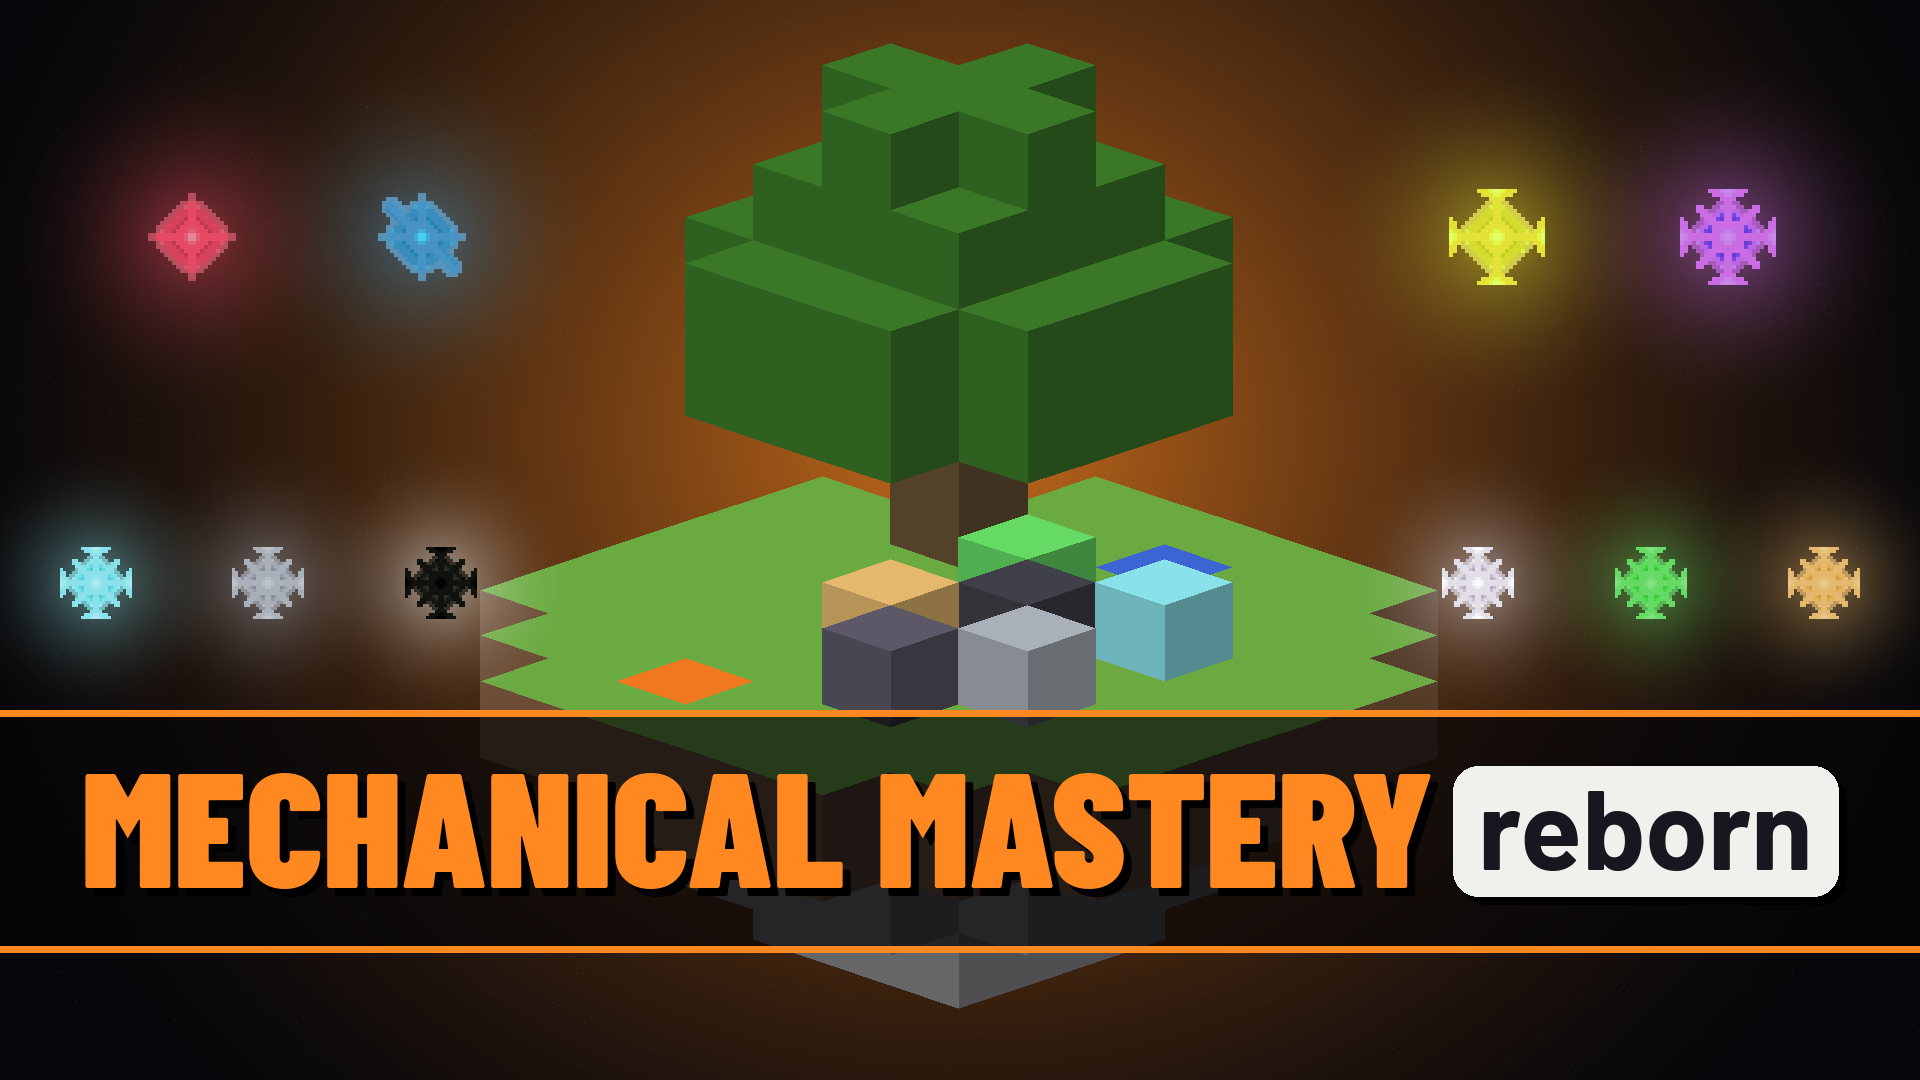
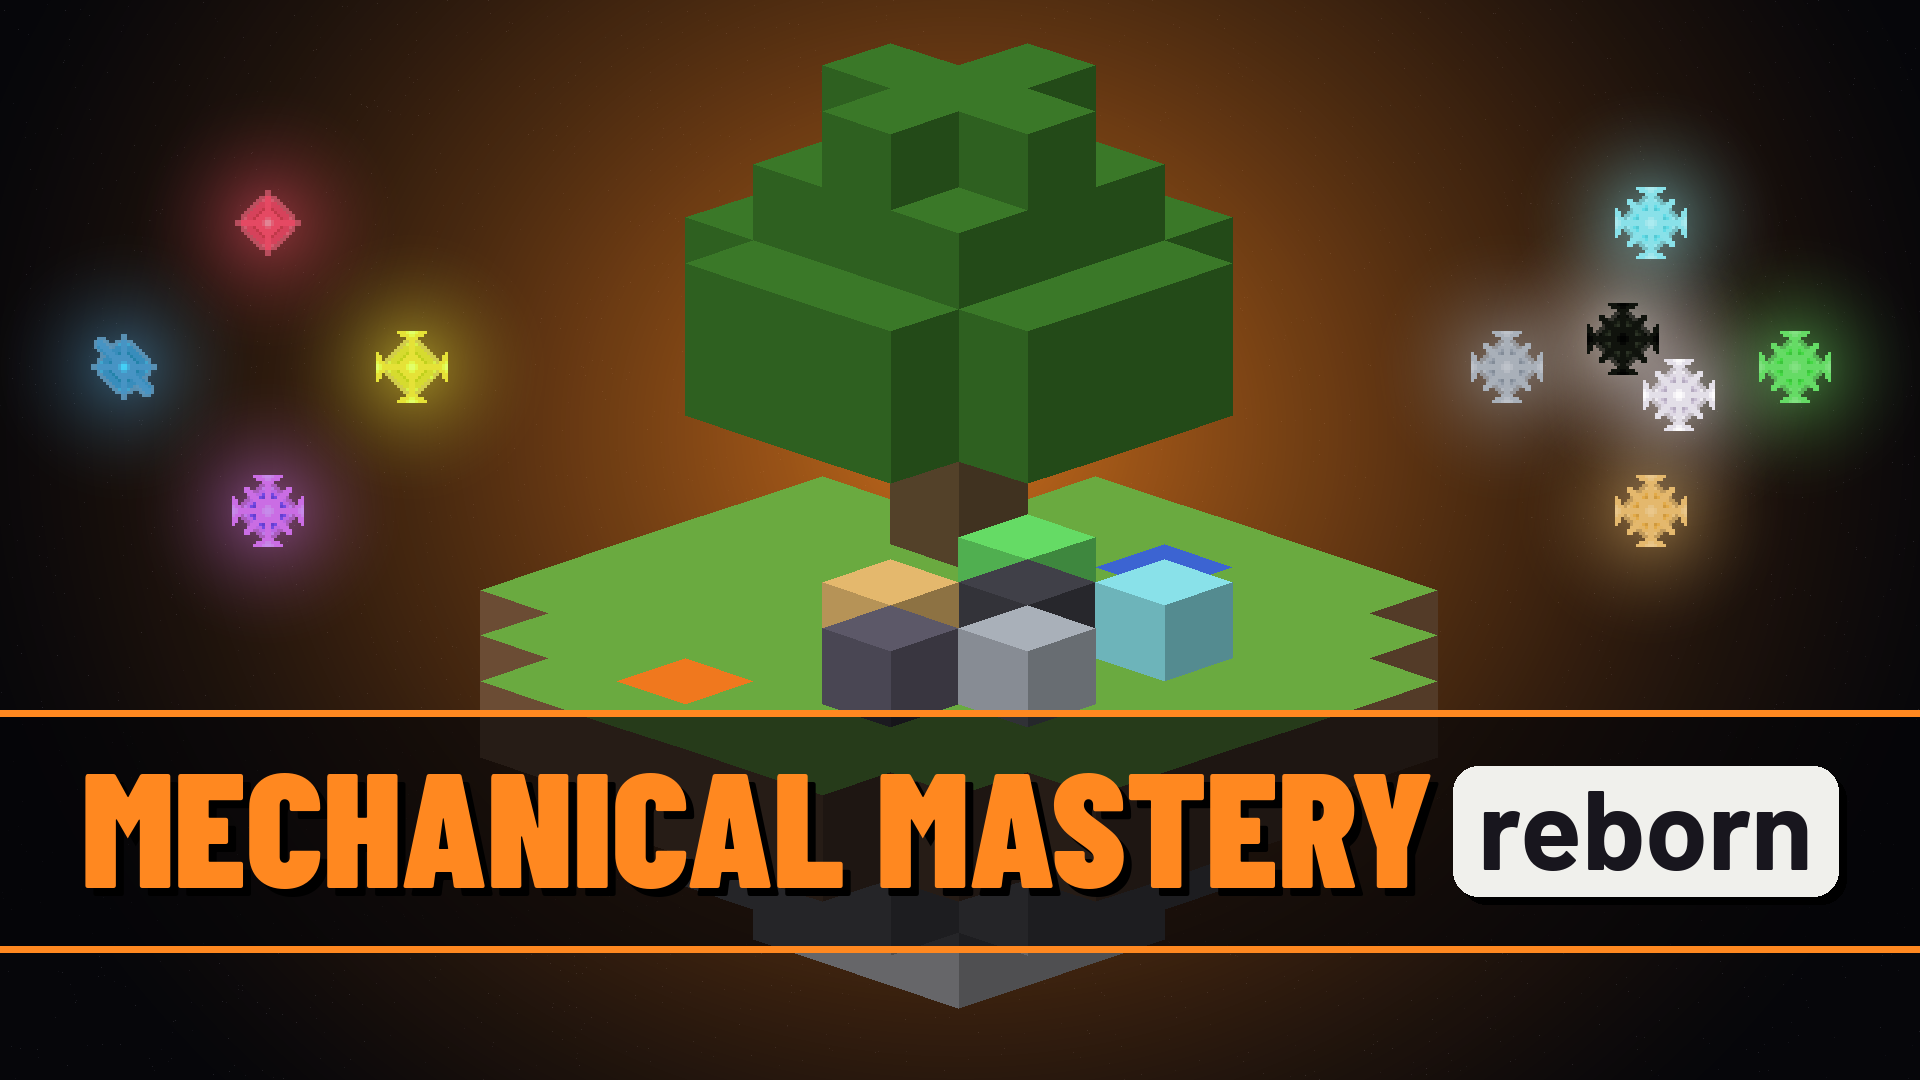
Reborn's pack art groups its essences by kind: the tiers in a diamond left of the island, the Transmuted Essences right, Nullessence and Quintessence overlapping in their middle (#274)

Changed region(s): [[0.7188, 0.1222, 1.0, 0.6111], [0.0, 0.1222, 0.2812, 0.6111]]

diff --git a/MMR26.1.2/publish/make-cover.py b/MMR26.1.2/publish/make-cover.py
@@ -17,10 +17,10 @@
 #   - the team's starting island in the middle, drawn from its template (ISLAND) block by block, a
 #     quarter turned so its tree stands at the back, each block a cube in a flat colour of its own,
 #     its top lighter than its sides; a Port takes its essence's colour;
-#   - on the cover and the card, the four tier essences either side of the tree, lowest first, and the
-#     four Transmuted Essences either side of the grass, Nullessence and Quintessence, the last
-#     stand's two sides, nearest the island, each scaled up nearest-neighbour and glowing in its
-#     colour; the icon, too small for them, keeps the island alone;
+#   - on the cover and the card, the essences by kind, each scaled up nearest-neighbour and glowing in
+#     its colour: left of the island the four tiers in a diamond, lowest at the top; right of it the
+#     four Transmuted Essences in a diamond, holding in its middle Nullessence and Quintessence, the
+#     last stand's two sides, overlapping; the icon, too small for them, keeps the island alone;
 #   - the band across the island's earth, as the old logo's letters crossed it, dark but letting the
 #     island show through, ruled top and bottom in the accent, holding the suite's title turned
 #     around, as A Touch of Darkness's is: "MECHANICAL MASTERY" in Barlow Condensed caps, in the
@@ -52,13 +52,14 @@ GLOWS = {'nullessence': (255, 255, 255)}
 # the four tiers, lowest first
 TIERS = ['basic_mechanical_essence', 'regular_mechanical_essence', 'improved_mechanical_essence',
          'advanced_mechanical_essence']
-# the Transmuted Essences, two each side of the island, outside Nullessence and Quintessence; those two
-# are animated, and their first frames are drawn
+# the Transmuted Essences, whose diamond holds Nullessence and Quintessence in its middle, the two ways
+# to Quintessence, overlapping; those two are animated, and their first frames are drawn
 TRANSMUTED = ['galvanic_essence', 'warding_essence', 'vital_essence', 'aureate_essence']
 LAST_STAND = ['nullessence', 'quintessence']
-# the tier essences' and the others' places, as fractions of the width
-TIER_X = [0.1, 0.22, 0.78, 0.9]
-UNDER_X = [0.05, 0.14, 0.23, 0.77, 0.86, 0.95]
+# where the tier essences' diamond and the Transmuted Essences' stand, as fractions of the width and
+# height, and how far a diamond's points are from its middle, in essences
+LEFT, RIGHT, SPREAD = (0.14, 0.34), (0.86, 0.34), 1.5
+OVERLAP = 0.3  # how far Nullessence and Quintessence stand off the diamond's middle, in essences
 ISLAND = 'config/skyblockbuilder/templates/islands/reborn.snbt'
 # each of the island's blocks as the (top, side) colour it is drawn in; a Port's is its essence's
 BLOCKS = {'stone': ((128, 128, 132),) * 2, 'dirt': ((134, 96, 66),) * 2,
@@ -103,17 +104,19 @@ def glow(rgb, r, peak=140):
     return im
 
 
-def essence(img, name, cx, cy, px):
-    g = glow(GLOWS.get(name) or colour(name), int(px * 1.5))
-    img.alpha_composite(g, (cx - g.width // 2, cy - g.height // 2))
-    s = texture(name).resize((px, px), Image.NEAREST)
-    img.alpha_composite(s, (cx - px // 2, cy - px // 2))
+def essences(img, placed, px):
+    # each (name, x, y) essence px wide, every glow laid first so none washes over a neighbour
+    for name, x, y in placed:
+        g = glow(GLOWS.get(name) or colour(name), int(px * 1.5))
+        img.alpha_composite(g, (x - g.width // 2, y - g.height // 2))
+    for name, x, y in placed:
+        img.alpha_composite(texture(name).resize((px, px), Image.NEAREST), (x - px // 2, y - px // 2))
 
 
-def flank(img, items, xs, y, px):
-    # items at the fractions xs of the width, at the fraction y of the height
-    for name, fx in zip(items, xs):
-        essence(img, name, int(fx * img.width), int(y * img.height), px)
+def diamond(img, names, at, px):
+    # four essences at a diamond's top, left, right and bottom points, about at, a fraction of the image
+    cx, cy, r = int(at[0] * img.width), int(at[1] * img.height), int(SPREAD * px)
+    return [(n, cx + dx * r, cy + dy * r) for n, (dx, dy) in zip(names, [(0, -1), (-1, 0), (1, 0), (0, 1)])]
 
 
 def blocks():
@@ -184,13 +187,12 @@ def font(names, size):
     raise SystemExit('needs one of ' + ', '.join(names))
 
 
-def make(out, W, H, title_size, band_y, island_h, island_y, px=None, under_px=None, stacked=False):
+def make(out, W, H, title_size, band_y, island_h, island_y, px=None, stacked=False):
     # title_size is the title's size, drawn smaller where it would not fit, as with a fallback font;
     # band_y is where the band's middle is, island_h how much of the height the island takes and
-    # island_y where its top is, each a fraction of the height; px and under_px are the sizes of the
-    # tier essences and the others, whole multiples of the textures' 32 so nearest-neighbour keeps
-    # their pixels square, or None to leave them out; stacked breaks the title in two lines over the
-    # pill, for the square icon
+    # island_y where its top is, each a fraction of the height; px is the essences' size, a whole
+    # multiple of the textures' 32 so nearest-neighbour keeps their pixels square, or None to leave
+    # them out; stacked breaks the title in two lines over the pill, for the square icon
     lines = TITLE.split(' ') if stacked else [TITLE]
     d = ImageDraw.Draw(Image.new('RGB', (1, 1)))
     while True:
@@ -218,8 +220,10 @@ def make(out, W, H, title_size, band_y, island_h, island_y, px=None, under_px=No
     img.alpha_composite(sky(W, H, W // 2, at[1] + land.height * 0.4))
     img.alpha_composite(land, at)
     if px:
-        flank(img, TIERS, TIER_X, 0.22, px)
-        flank(img, TRANSMUTED[:2] + LAST_STAND + TRANSMUTED[2:], UNDER_X, 0.54, under_px)
+        essences(img, diamond(img, TIERS, LEFT, px), px)
+        mx, my, o = int(RIGHT[0] * W), int(RIGHT[1] * H), int(OVERLAP * px)
+        pair = [(LAST_STAND[0], mx - o, my - o), (LAST_STAND[1], mx + o, my + o)]
+        essences(img, diamond(img, TRANSMUTED, RIGHT, px) + pair, px)
 
     band = Image.new('RGBA', (W, H), (0, 0, 0, 0))
     ImageDraw.Draw(band).rectangle([0, top, W, bottom], fill=BAND)
@@ -248,10 +252,10 @@ def make(out, W, H, title_size, band_y, island_h, island_y, px=None, under_px=No
 
 
 # each image: where it goes, its size, its title's size, where its band is, the island's height and
-# top, and its essences' sizes
-COVER = ('publish/reborn-cover.png', 1280, 640, 108, 0.76, 0.92, 0.04, 96, 64)
+# top, and its essences' size
+COVER = ('publish/reborn-cover.png', 1280, 640, 108, 0.76, 0.92, 0.04, 64)
 ICON = ('publish/reborn-icon.png', 512, 512, 100, 0.74, 0.62, 0.02)
-CARD = ('publish/reborn-card.png', 1920, 1080, 162, 0.77, 0.9, 0.04, 128, 96)
+CARD = ('publish/reborn-card.png', 1920, 1080, 162, 0.77, 0.9, 0.04, 96)
 
 make(*COVER)
 make(*ICON, stacked=True)
